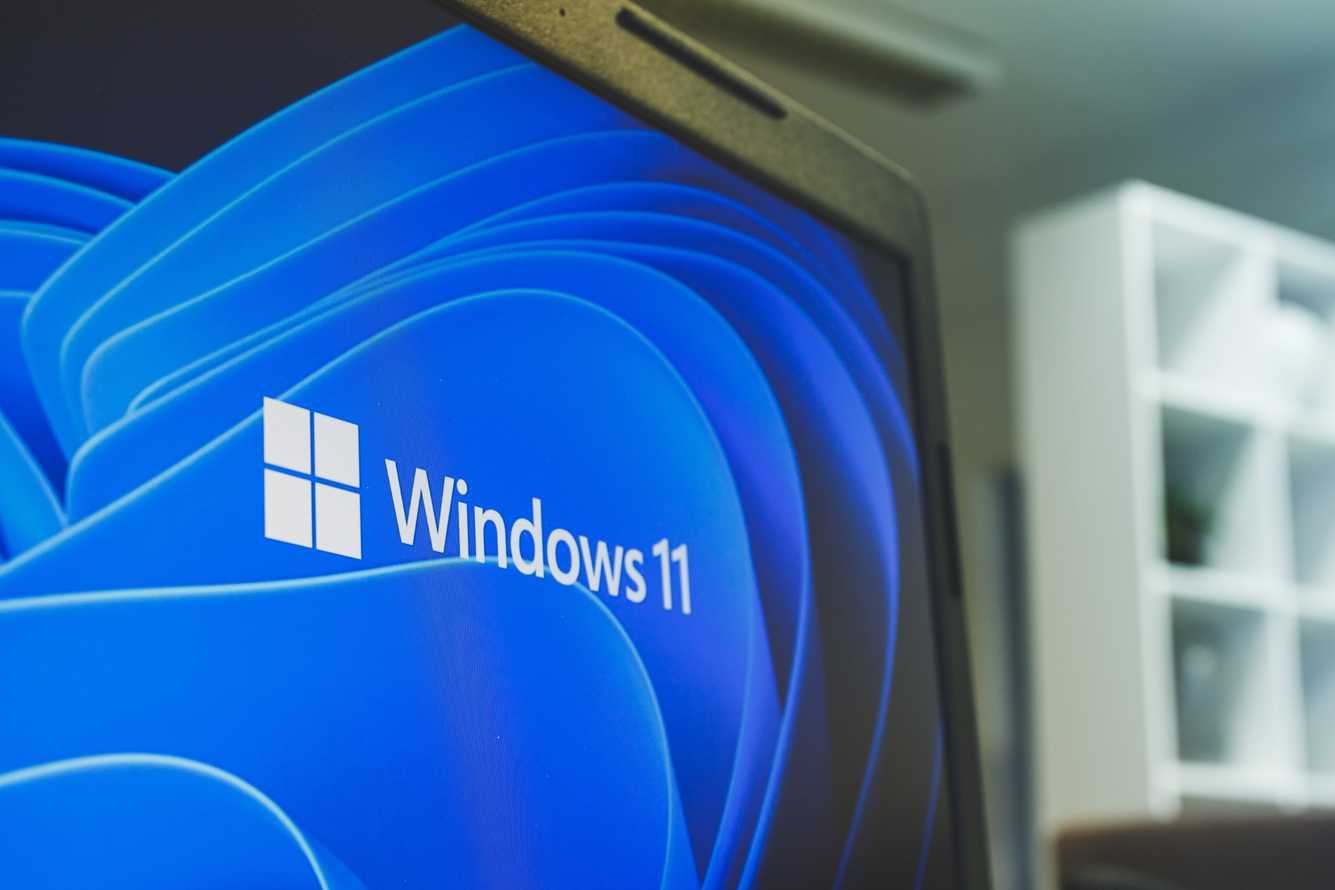
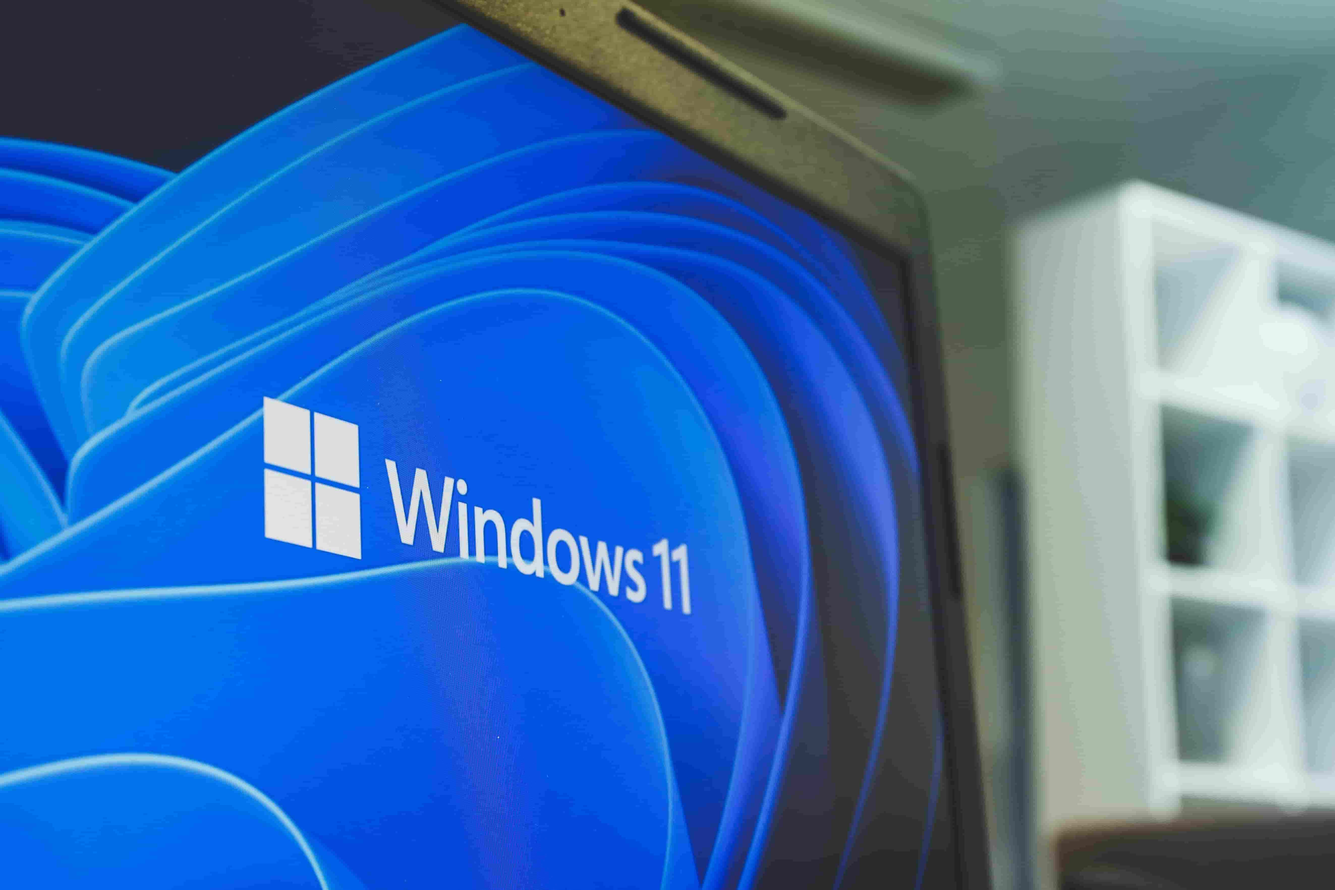
Corrige acento en instrucciones y comprime imágnes

Changed region(s): [[0.2182, 0.1247, 0.4053, 1.0], [0.2182, 0.0935, 0.2494, 0.1247]]

diff --git a/curso/html/modulo10/modulo10-3.html b/curso/html/modulo10/modulo10-3.html
@@ -96,7 +96,7 @@
                 <div class="card-block">
                   <p class="card-info mb-3">
                     <i class="icon ti-mouse-alt"></i> Haz clic en las las
-                    imagenes para conocer más.
+                    imágenes para conocer más.
                   </p>
                   <div class="row center d-flex justify-content-center">
                     <!-- 1 START -->

diff --git a/curso/html/modulo8/modulo8-5.html b/curso/html/modulo8/modulo8-5.html
@@ -92,7 +92,7 @@
                 <div class="card-block">
                   <p class="card-info mb-3">
                     <i class="icon ti-mouse-alt"></i> Haz clic en las las
-                    imagenes para conocer más.
+                    imágenes para conocer más.
                   </p>
                   <div class="row center d-flex justify-content-center">
                     <!-- 1 START -->
